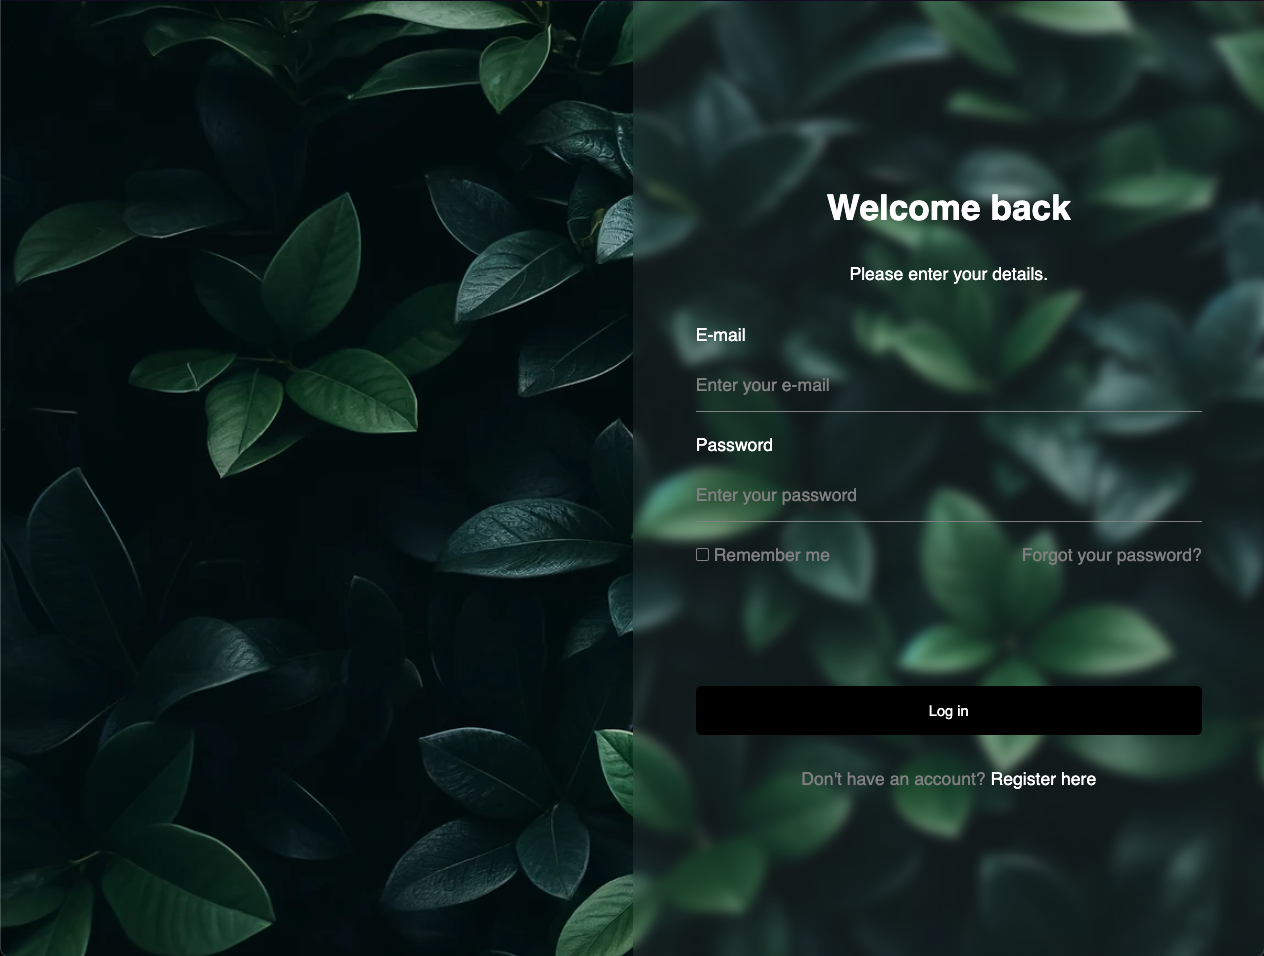
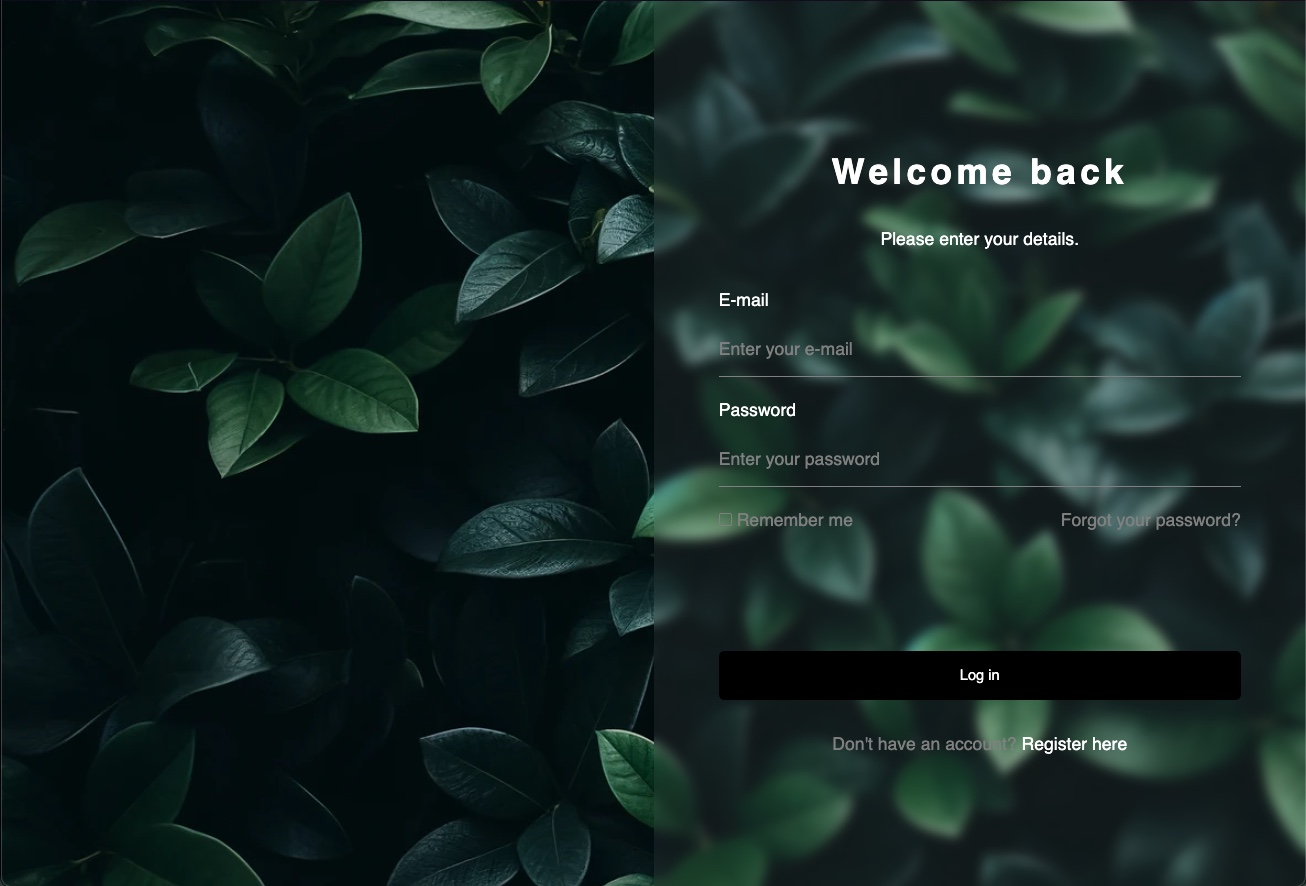
update: render-image

diff --git a/style.css b/style.css
@@ -46,6 +46,10 @@ form {
   margin-bottom: 20px;
 }
 
+.title-group h1 {
+	letter-spacing: 4px;
+}
+
 .input-group {
   height: 90px;
   display: flex;
